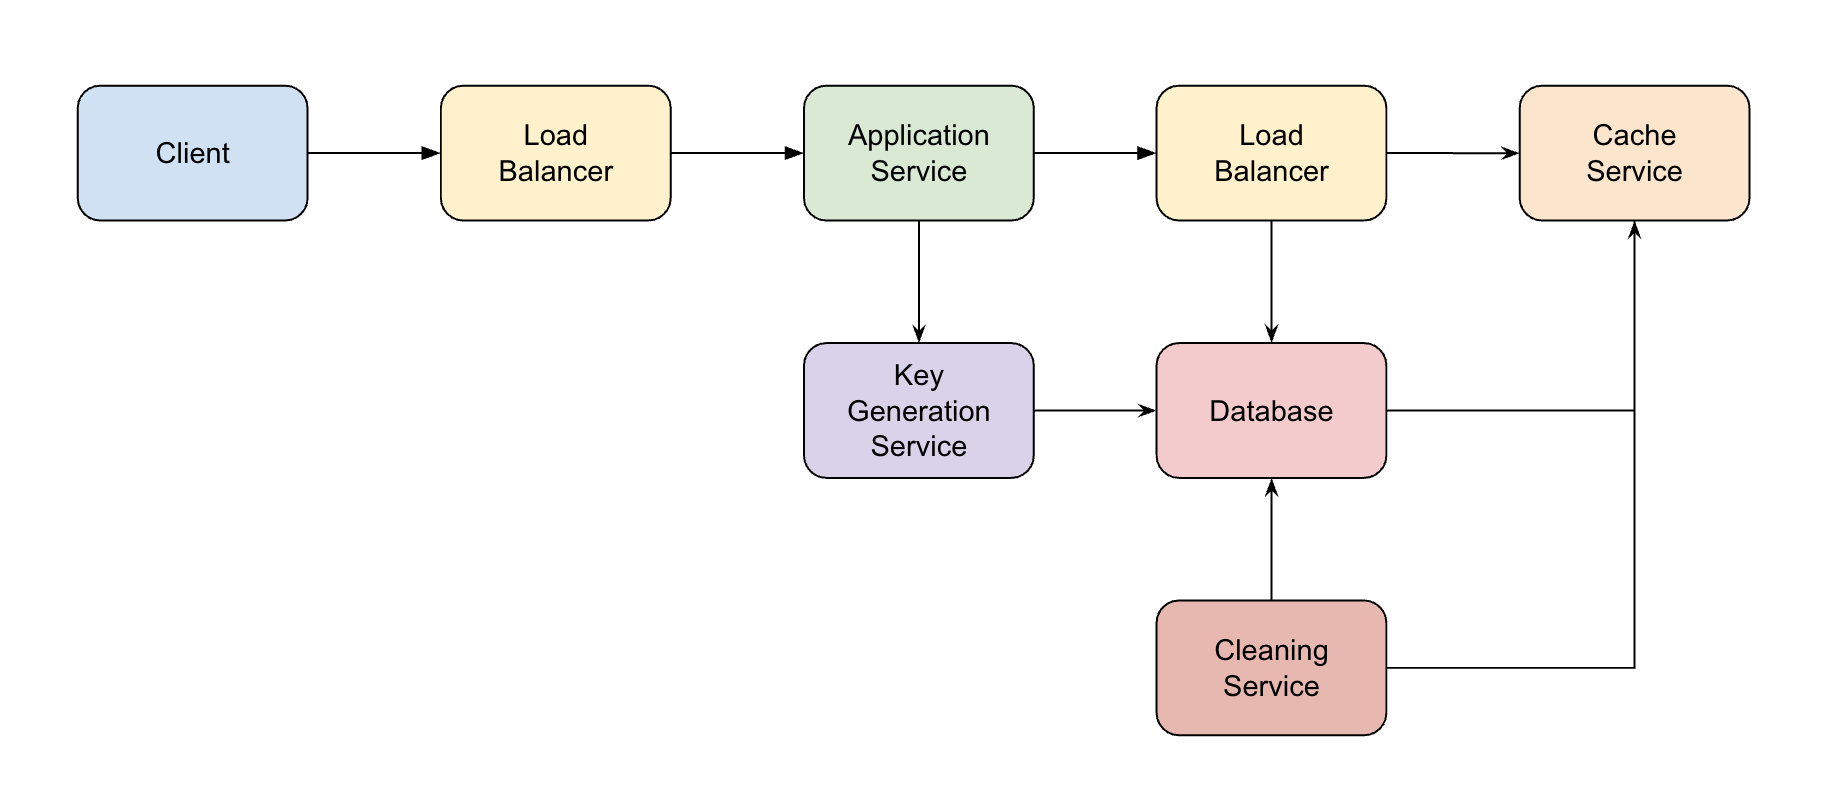
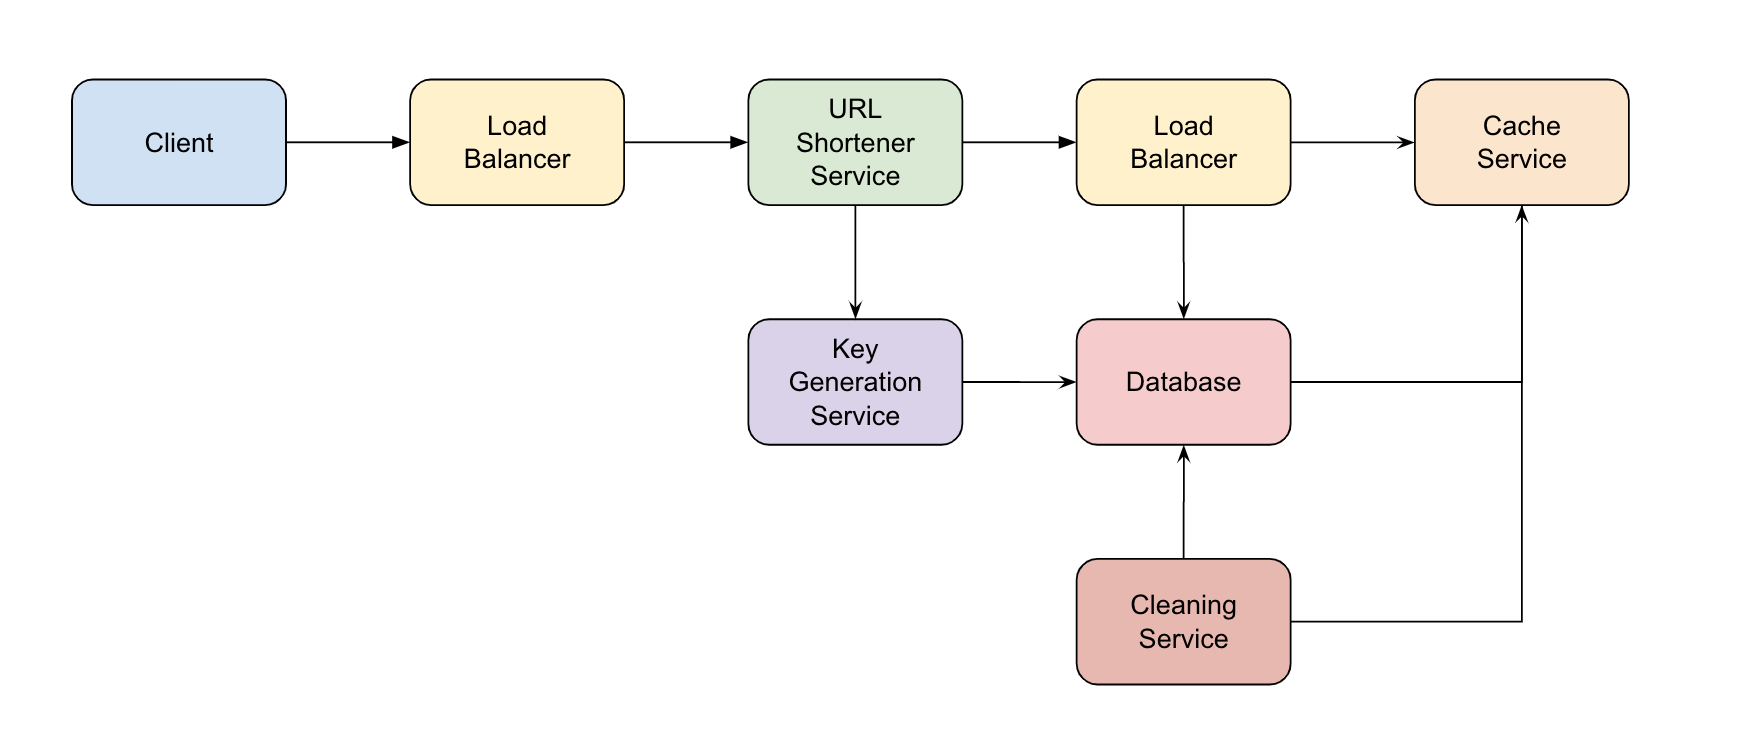
checkin instagram

diff --git a/_drafts/2020-07-07-system-design.md b/_drafts/2020-07-07-system-design.md
@@ -8,6 +8,8 @@ tags: [architecture, system, design]
 
 ## URL Shortener
 
+URL Shortener provides short aliases redirecting to long URLs.
+
 **Requirements clarifications**
 - Functional requirements:
   - Given a URL, return a shorter and unique alias link.
@@ -24,8 +26,8 @@ tags: [architecture, system, design]
 ![URL Shortener's Component Design](/assets/images/sd-url-shortener.png)
 
 - Key Generation Service generates an unique key for a given URL.
-  - One way to do so is to compute a unique hash of the URL directly. We can hash the URL with an increasing sequence number to prevent key duplication given the same URL. We can also hash it with a user id though that requires an user to either sign in or provide a unique key if not signed in.
-  - Another way is to generate unique keys beforehand so that we don't have to worry about duplications or collisions.
+  - One way to do so is to compute a unique hash of the URL directly. We can hash the URL with an increasing sequence number to prevent key duplication given the same URL. We can also hash it with an user's ID though that requires an user to either sign in or provide a unique key if not signed in.
+  - Another way is to generate unique keys offline beforehand. Whenever we want to store a new link, just take one of the already generated keys and use it. That way, we don't have to worry about duplications or collisions.
 - A NoSQL database is a good option in this case for several reasons:
   - Each record in the database is small as it only holds the URL mapping and its owner.
   - There are no relationships between records.
@@ -37,9 +39,50 @@ tags: [architecture, system, design]
 - Cleaning Service is a lightweight service that runs periodically to clean up expired links in the database and cache.
 - Load Balancers can be added between clients and application servers as well as between application servers and databases to increase the service load.
 - Cache Service can use existing caching server like Memcached to cache URLs that are frequently accessed.
-  - We can also replicate caching servers to distribute load between them.
   - Whenever there's a cache miss, servers would be hitting databases. 
 - Separate analytic tools can be used to track the number of times a short link has been used, users' locations, browsers, web page that refers the click, and so on.
+
+## Instagram
+
+Instagram lets users upload photos and share them with other users.
+
+**Requirements clarifications**
+- Functional requirements:
+  - Users can upload, view, like, comment on, download photos/videos.
+  - Users can upload as many photos/videos as they like.
+  - Users can search for photos/videos titles, other usernames.
+  - Users can follow other users.
+  - Users can have a News Feed consisting of recent photos from all of their following users.
+- System requirements:
+  - The system should be highly reliable as any uploaded photo/video should never be lost.
+  - Consistency can take a hit in the interest of availability. It's fine if an user doesn't see a photo or new changes for a while.
+  - The system should be read-heavy as low latency is expected while viewing photos/videos.
+
+**Component Design**
+![Instagram's Component Design](/assets/images/sd-instagram.png)
+
+- Image Hosting Service uses Object Storage Service to store actual photos/videos and Metadata Service to store metadata information about the photos/videos.
+- Object Storage Service uses distributed file storages such as HDFS or S3.
+- Metadata Service uses SQL databases as we need to store photos/videos metadata as well as their owners and followers.
+- There are 2 ways we can partition metadata information in this case:
+  - Partitioning based on User's ID so that all photos/videos of a user is on the same shard. Different issues with this approach include:
+    - Some users have a lot of photos/videos compared to others, thus making the distribution unbalanced.
+    - All photos/videos of a user might not fit on on shard, thus making distributing onto different shards resource-expensive.
+    - Storing all photos/videos of a user on a shard makes the user's shard a single point of failure.
+  - Partitioning based on Photo/Video's ID will fix all above problems. One way to generate a unique photo/video's ID is to use a Key Generation Service as in the URL Shortener.
+
+## TEMPLATE
+
+**Requirements clarifications**
+- Functional requirements:
+  - TODO
+- System requirements:
+  - TODO
+
+**Component Design**
+![TODO's Component Design](/assets/images/sd-todo.png)
+
+TODO
 
 <hr>
 **References:**
